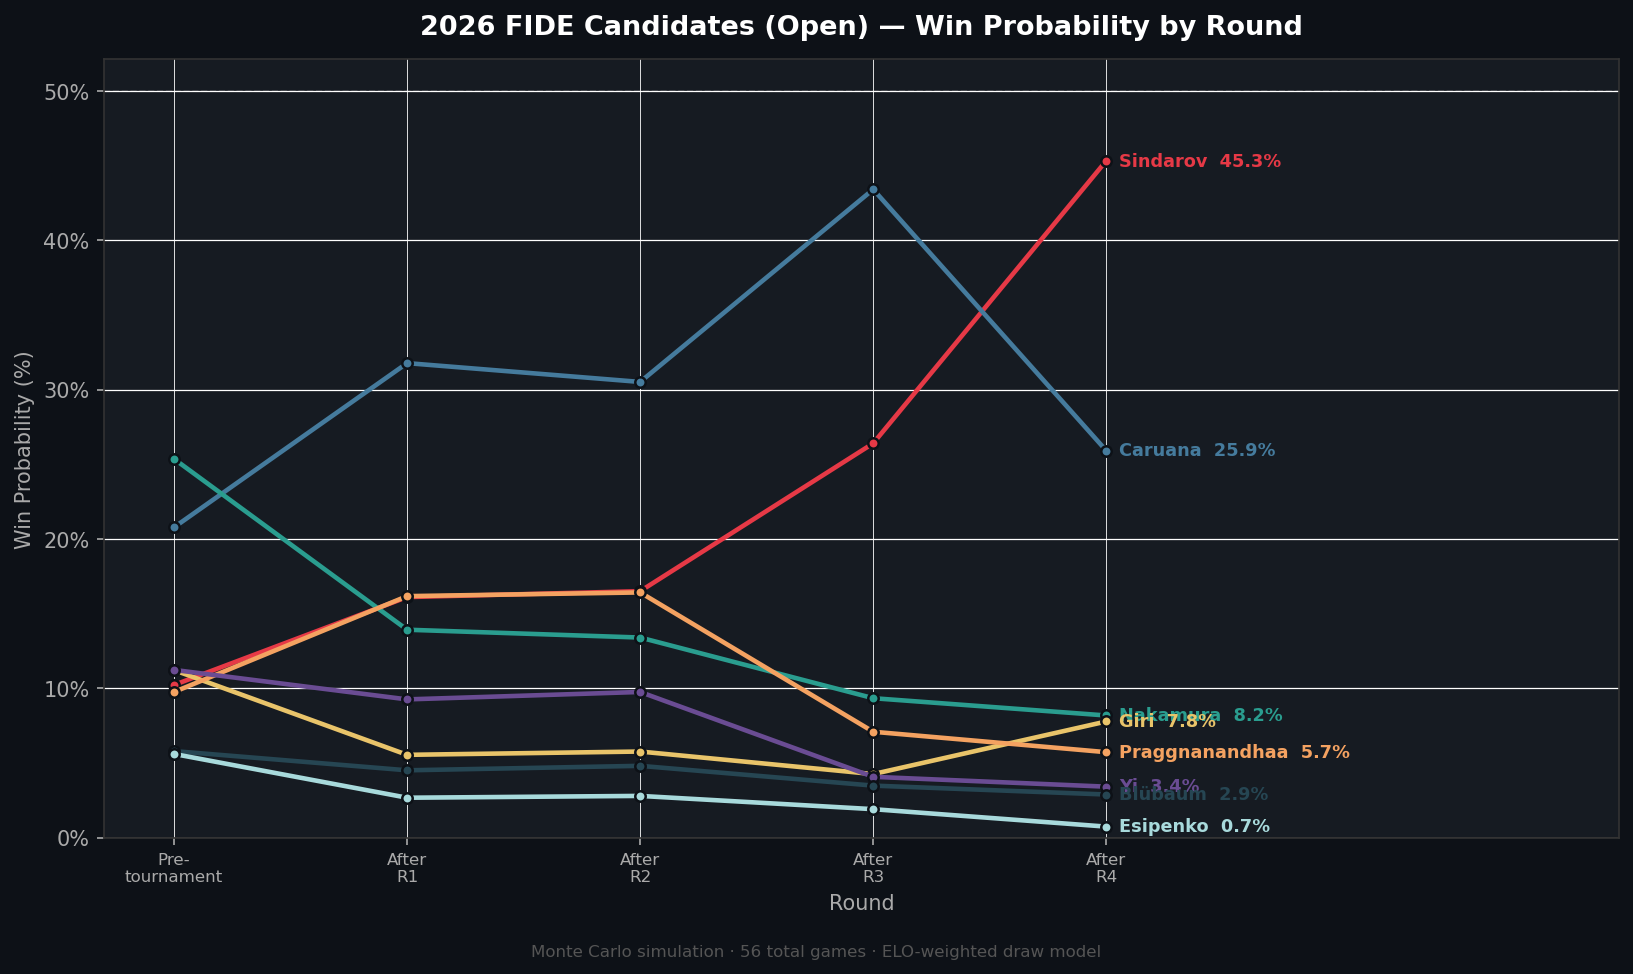
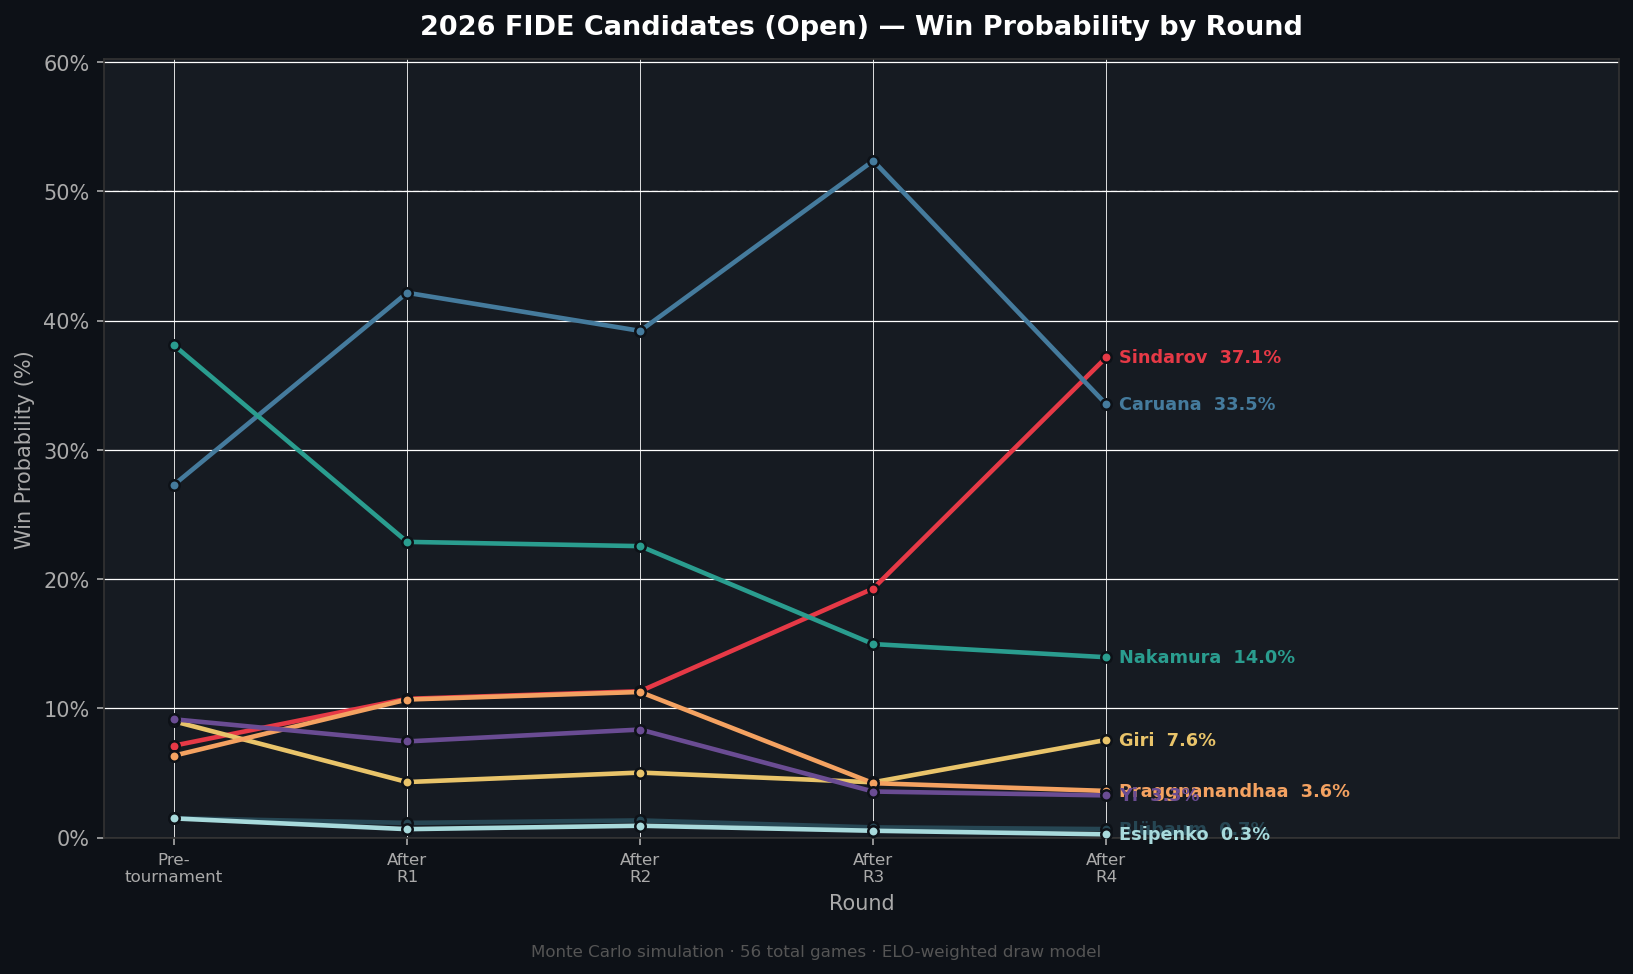
update elo formula

diff --git a/fide-candidates-mc/elo.py b/fide-candidates-mc/elo.py
@@ -2,11 +2,13 @@
 
 from __future__ import annotations
 
+import bisect
+
 # At top-level chess, white has roughly 35 ELO points of effective advantage
 WHITE_ADVANTAGE = 35.0
 
-# At equal ELO, roughly 58% of top-level games end in draws
-BASE_DRAW_RATE = 0.58
+# Base draw rate used only as fallback when outside the empirical table's range
+BASE_DRAW_RATE = 0.54
 
 
 def expected_score(elo_white: float, elo_black: float) -> float:
@@ -14,16 +16,50 @@ def expected_score(elo_white: float, elo_black: float) -> float:
     return 1.0 / (1.0 + 10.0 ** ((elo_black - elo_white - WHITE_ADVANTAGE) / 400.0))
 
 
-def draw_rate(elo_white: float, elo_black: float, base: float = BASE_DRAW_RATE) -> float:
-    """Draw probability, declining as ELO gap widens.
+# ---------------------------------------------------------------------------
+# Empirical draw probability table
+# Source: chess-db.com historical game database research
+# Axes: average rating (rows, 200-pt steps) × rating difference (cols, 20-pt steps)
+# ---------------------------------------------------------------------------
 
-    Model: draw_rate = max(0.35, base - 0.10 * |elo_diff| / 100)
-    Examples (base=0.58):
-      diff=   0 → 58%     diff=100 → 48%
-      diff= 200 → 38%     diff=250+ → 35% (floor)
+_AVG_BREAKPOINTS  = [1400, 1600, 1800, 2000, 2200, 2400, 2600]
+_DIFF_BREAKPOINTS = [0, 20, 40, 60, 80, 100, 120, 140, 160, 180, 200, 220, 240, 260, 280, 300]
+
+# Draw probability indexed by [avg_rating_bracket][diff_bracket]
+# Rows correspond to _AVG_BREAKPOINTS; columns to _DIFF_BREAKPOINTS
+_DRAW_TABLE: list[list[float]] = [
+    # avg ≈ 1400
+    [0.213, 0.198, 0.183, 0.167, 0.152, 0.137, 0.122, 0.109, 0.096, 0.084, 0.074, 0.064, 0.056, 0.048, 0.042, 0.037],
+    # avg ≈ 1600
+    [0.283, 0.265, 0.247, 0.228, 0.210, 0.192, 0.174, 0.157, 0.141, 0.126, 0.112, 0.099, 0.087, 0.077, 0.067, 0.059],
+    # avg ≈ 1800
+    [0.360, 0.340, 0.319, 0.298, 0.277, 0.256, 0.235, 0.215, 0.196, 0.177, 0.160, 0.143, 0.128, 0.114, 0.101, 0.089],
+    # avg ≈ 2000
+    [0.430, 0.410, 0.388, 0.367, 0.345, 0.323, 0.301, 0.280, 0.259, 0.239, 0.219, 0.201, 0.183, 0.167, 0.151, 0.137],
+    # avg ≈ 2200
+    [0.482, 0.462, 0.441, 0.420, 0.398, 0.376, 0.354, 0.333, 0.311, 0.291, 0.270, 0.251, 0.232, 0.214, 0.197, 0.181],
+    # avg ≈ 2400
+    [0.541, 0.521, 0.500, 0.479, 0.457, 0.435, 0.413, 0.391, 0.370, 0.349, 0.328, 0.308, 0.289, 0.271, 0.253, 0.236],
+    # avg ≈ 2600
+    [0.578, 0.558, 0.537, 0.516, 0.495, 0.473, 0.451, 0.429, 0.408, 0.387, 0.366, 0.346, 0.326, 0.307, 0.289, 0.271],
+]
+
+
+def draw_rate(elo_white: float, elo_black: float, base: float = BASE_DRAW_RATE) -> float:
+    """Draw probability from empirical lookup table (chess-db.com research).
+
+    Falls back to `base` when both players are outside the tabulated range.
     """
+    avg  = (elo_white + elo_black) / 2.0
     diff = abs(elo_white - elo_black)
-    return max(0.35, base - 0.10 * diff / 100.0)
+
+    avg_clamped  = max(_AVG_BREAKPOINTS[0],  min(_AVG_BREAKPOINTS[-1],  avg))
+    diff_clamped = max(_DIFF_BREAKPOINTS[0], min(_DIFF_BREAKPOINTS[-1], diff))
+
+    avg_idx  = min(bisect.bisect_right(_AVG_BREAKPOINTS,  avg_clamped)  - 1, len(_AVG_BREAKPOINTS)  - 1)
+    diff_idx = min(bisect.bisect_right(_DIFF_BREAKPOINTS, diff_clamped) - 1, len(_DIFF_BREAKPOINTS) - 1)
+
+    return _DRAW_TABLE[avg_idx][diff_idx]
 
 
 def game_probabilities(
@@ -33,11 +69,30 @@ def game_probabilities(
 ) -> tuple[float, float, float]:
     """Return (p_white_win, p_draw, p_black_win) for a single game.
 
-    The model satisfies:
-        E[score_white] = p_white_win + 0.5 * p_draw = expected_score(...)
+    Formula (preserves ELO expected score exactly):
+        p_white_win = E - 0.5 * d
+        p_black_win = (1 - E) - 0.5 * d
+        p_draw      = d
+
+    Verification: E[score_white] = p_white_win + 0.5·p_draw
+                                  = (E - 0.5·d) + 0.5·d = E  ✓
+
+    If the ELO gap is so extreme that p_white_win < 0, probabilities are
+    clamped and renormalised (practically never occurs at Candidates level).
     """
     e = expected_score(elo_white, elo_black)
     d = draw_rate(elo_white, elo_black, base_draw)
-    p_white = (1.0 - d) * e
-    p_black = (1.0 - d) * (1.0 - e)
+
+    p_white = e - 0.5 * d
+    p_black = (1.0 - e) - 0.5 * d
+
+    # Guard against extreme ELO gaps producing negative probabilities
+    if p_white < 0.0 or p_black < 0.0:
+        p_white = max(0.0, p_white)
+        p_black = max(0.0, p_black)
+        total = p_white + p_black + d
+        p_white /= total
+        p_black /= total
+        d      /= total
+
     return p_white, d, p_black
